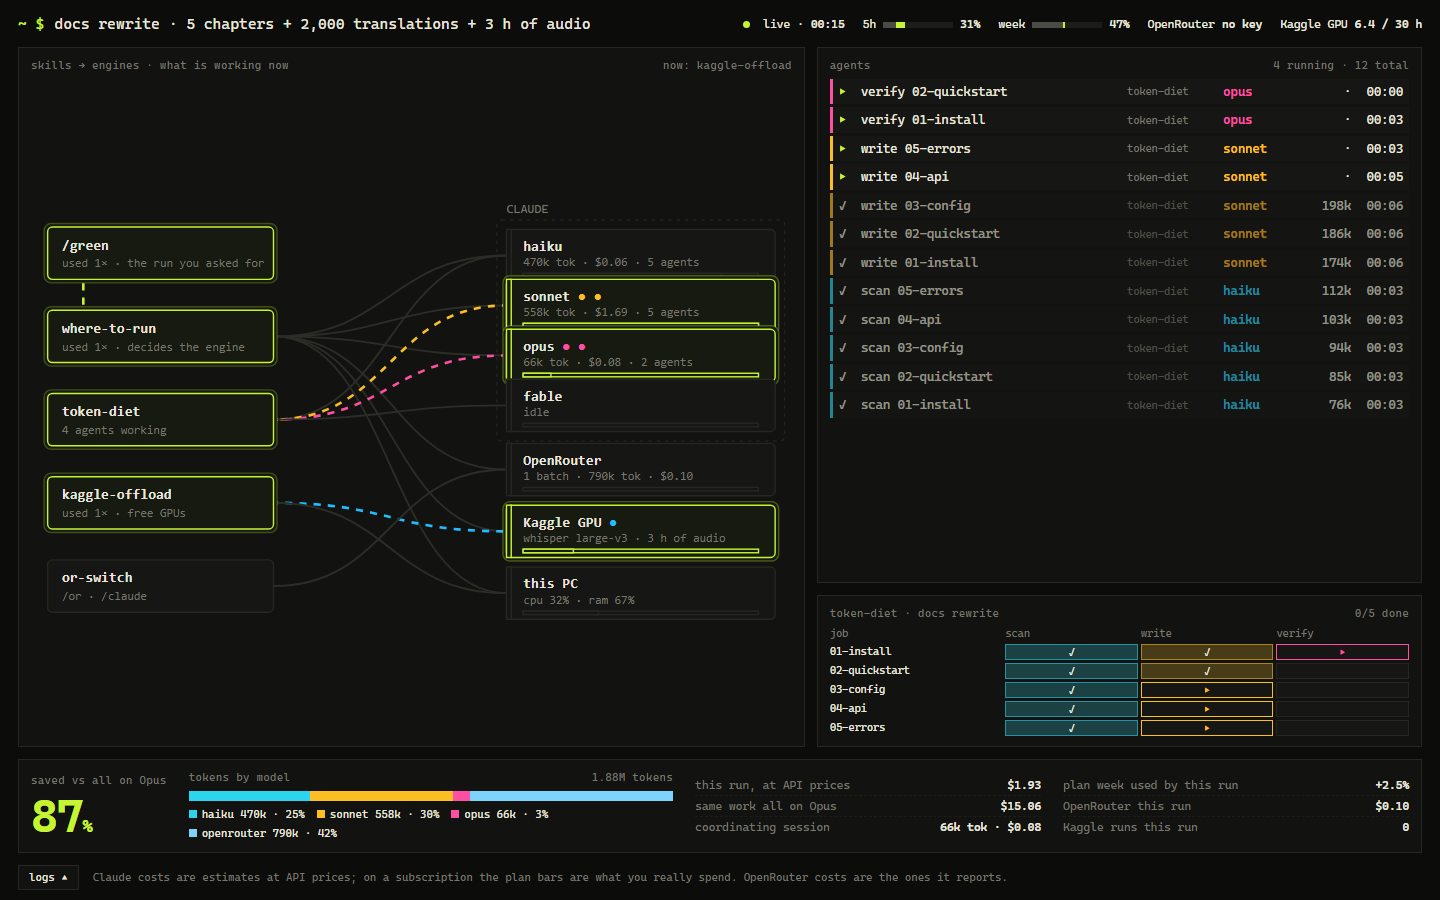
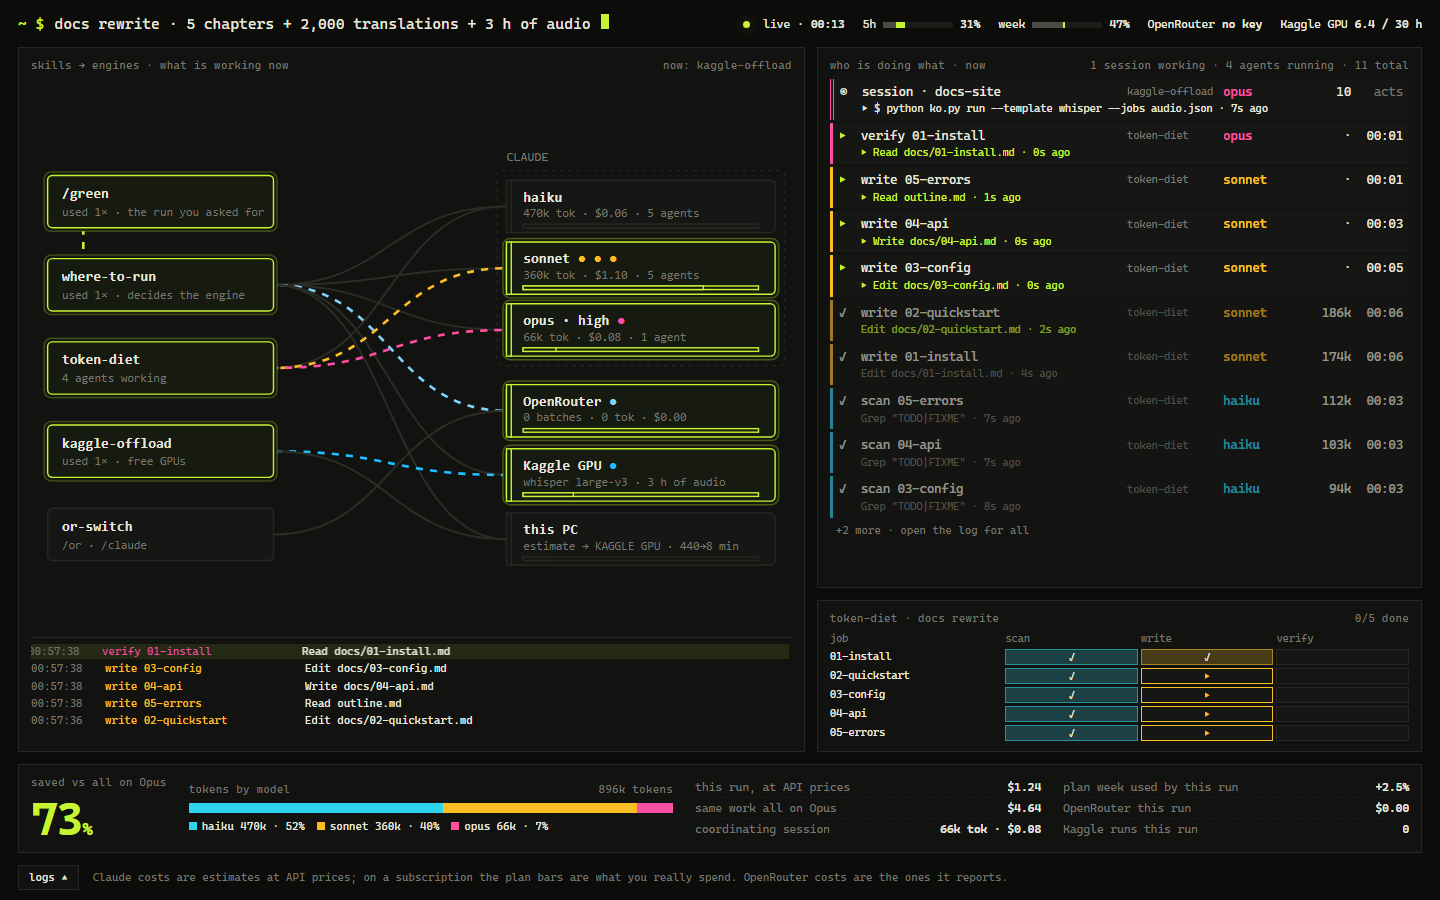
feat(control room): no Fable node, Opus at effort high is the top

diff --git a/control-room/index.html b/control-room/index.html
@@ -187,20 +187,20 @@ const SK = [
   { k:'or-switch', label:'or-switch', sub:'/or · /claude', y:308 },
 ];
 const EN = [
-  { k:'haiku', label:'haiku', y:30, c:'--haiku' }, { k:'sonnet', label:'sonnet', y:72, c:'--sonnet' },
-  { k:'opus', label:'opus', y:114, c:'--opus' }, { k:'fable', label:'fable', y:156, c:'--fable' },
-  { k:'openrouter', label:'OpenRouter', y:210, c:'--or' }, { k:'kaggle', label:'Kaggle GPU', y:262, c:'--kaggle' },
-  { k:'pc', label:'this PC', y:314, c:'--pc' },
+  { k:'haiku', label:'haiku', y:32, c:'--haiku' }, { k:'sonnet', label:'sonnet', y:84, c:'--sonnet' },
+  { k:'opus', label:'opus · high', y:136, c:'--opus' },
+  { k:'openrouter', label:'OpenRouter', y:204, c:'--or' }, { k:'kaggle', label:'Kaggle GPU', y:258, c:'--kaggle' },
+  { k:'pc', label:'this PC', y:312, c:'--pc' },
 ];
 const EDGES = [
   ['where-to-run','haiku'],['where-to-run','sonnet'],['where-to-run','opus'],['where-to-run','openrouter'],['where-to-run','kaggle'],['where-to-run','pc'],
-  ['token-diet','haiku'],['token-diet','sonnet'],['token-diet','opus'],['token-diet','fable'],
+  ['token-diet','haiku'],['token-diet','sonnet'],['token-diet','opus'],
   ['kaggle-offload','kaggle'],['kaggle-offload','pc'],['or-switch','openrouter'],
 ];
 const SX = 14, SW = 190, EX = 400, EW = 226, NH = 44;
 function buildFlow(){
   const sy = k => SK.find(s => s.k === k).y + NH/2, ey = k => EN.find(e => e.k === k).y + NH/2;
-  let h = `<rect class="grp" x="${EX-8}" y="22" width="${EW+16}" height="186" rx="4"/><text x="${EX}" y="16" fill="var(--muted)" font-size="10">CLAUDE</text>`;
+  let h = `<rect class="grp" x="${EX-8}" y="24" width="${EW+16}" height="164" rx="4"/><text x="${EX}" y="16" fill="var(--muted)" font-size="10">CLAUDE</text>`;
   h += `<path class="edge" id="e-green" d="M${SX+30} ${28+NH} L${SX+30} 98"/>`;
   for (const [a,b] of EDGES) { const y1 = sy(a), y2 = ey(b), mx = (SX+SW+EX)/2; h += `<path class="edge" id="e-${a}-${b}" style="--c:var(${EN.find(e=>e.k===b).c})" d="M${SX+SW} ${y1} C${mx} ${y1}, ${mx} ${y2}, ${EX} ${y2}"/>`; }
   for (const s of SK) h += `<g class="node" id="s-${s.k}"><rect class="halo" x="${SX-3}" y="${s.y-3}" width="${SW+6}" height="${NH+6}" rx="6" fill="none" stroke="var(--acid)" stroke-opacity=".25" stroke-width="5"/><rect x="${SX}" y="${s.y}" width="${SW}" height="${NH}" rx="4"/><text x="${SX+12}" y="${s.y+19}">${s.label}</text><text class="sub" x="${SX+12}" y="${s.y+34}" id="ss-${s.k}">${s.sub}</text></g>`;
@@ -232,7 +232,7 @@ function render(s){
   setText('current', s.current ? `now: ${s.current}` : '');
   // engines: Claude families
   const maxTok = Math.max(1, ...Object.values(s.models).map(m => m.tokens));
-  for (const f of ['haiku','sonnet','opus','fable']) {
+  for (const f of ['haiku','sonnet','opus']) {
     const m = s.models[f] || { tokens:0, cost:0, agents:0, running:0 };
     setOn('n-'+f, m.running);
     setText('nd-'+f, m.running ? '  ●'.repeat(Math.min(m.running, 4)) : '');
